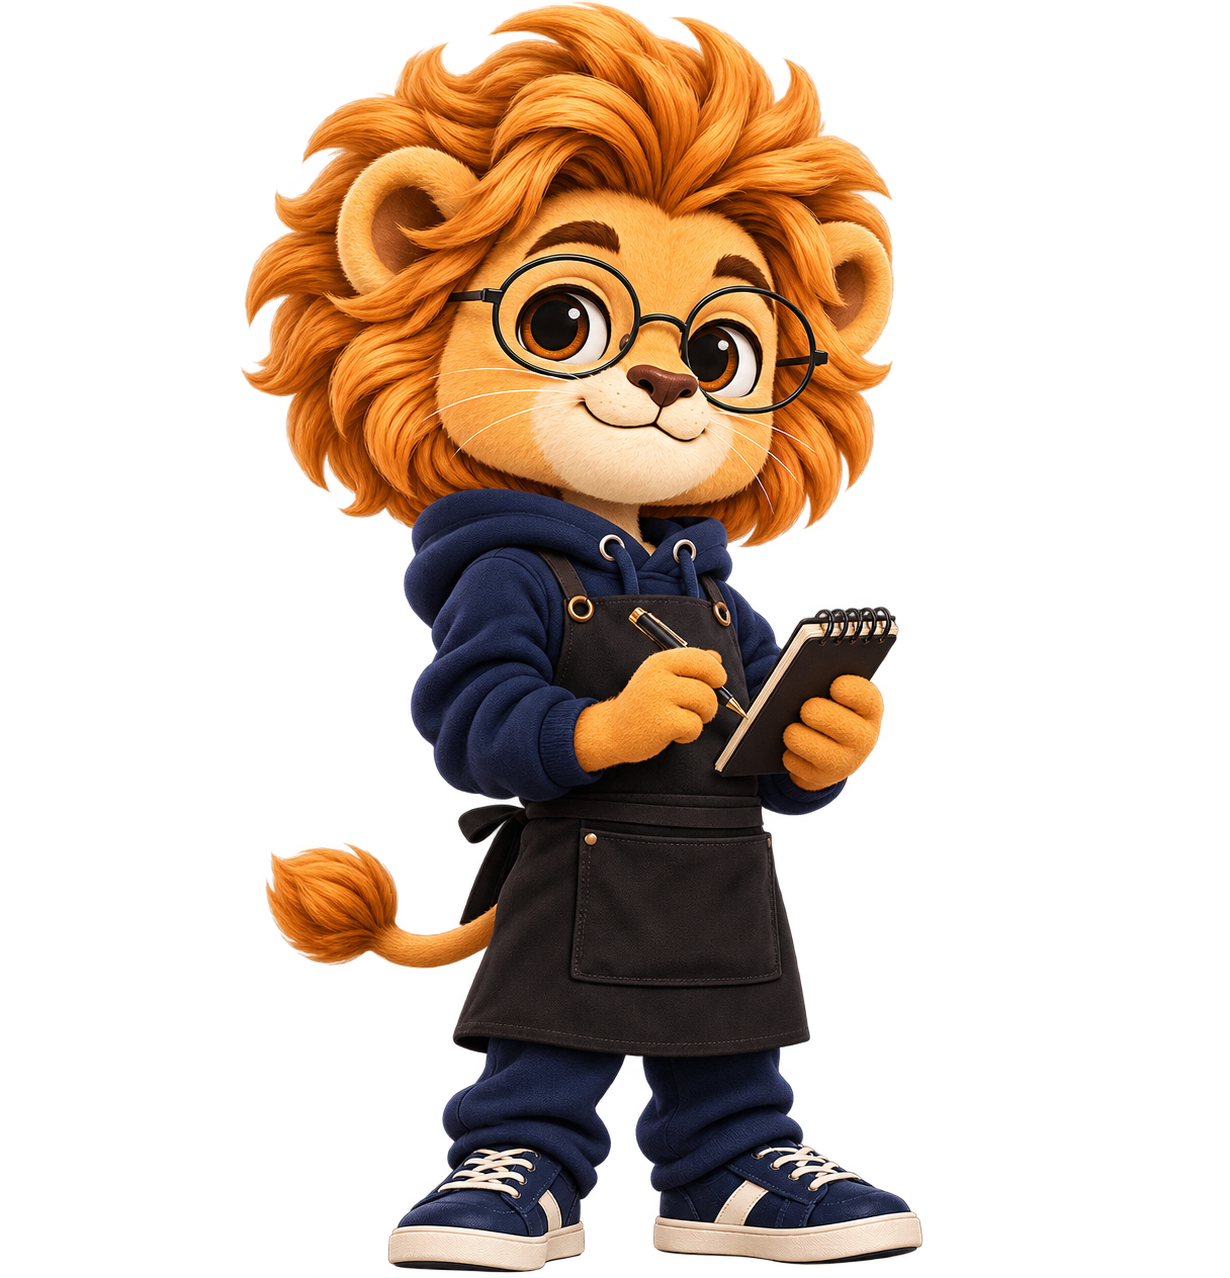
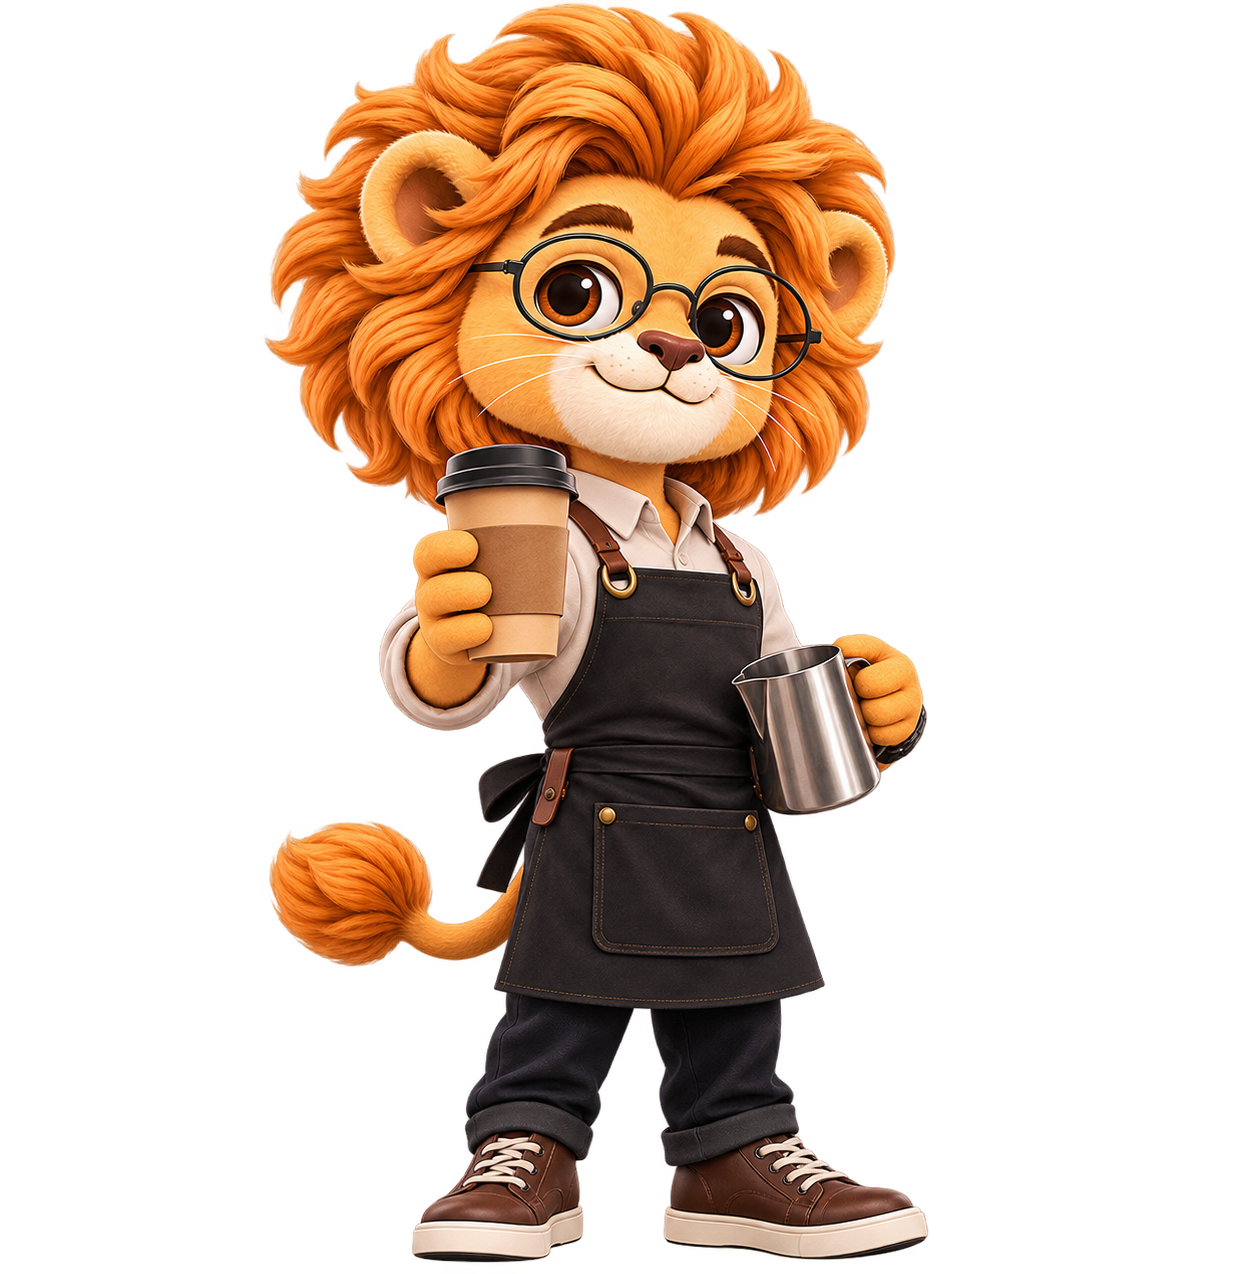
feat: cycle Leo's four roles every two seconds
All four outfits now exist — barista, interviewer, colleague and
doctor — so every role shows its own artwork instead of reusing
the barista.

The panel cycles through them on a two-second timer and wraps
back to the first, so the whole set is visible without scrolling
or clicking. Picking a role stops the rotation and pins that
role, so the cycle never fights the visitor.

All four images render from the start with only the active one
opaque. Crossfading between already-decoded images avoids the
blank frame a swap-on-demand would show.

Changed region(s): [[0.1854, 0.0, 0.7724, 1.0]]

diff --git a/components/sections/Companion.tsx b/components/sections/Companion.tsx
@@ -1,21 +1,21 @@
 "use client";
 
-import { useState } from "react";
+import { useEffect, useState } from "react";
 import Image from "next/image";
 import { assetPath } from "@/lib/asset-path";
 import { Reveal } from "@/components/ui/Reveal";
 import styles from "./Companion.module.css";
 
-/* هر نقش میتواند تصویر مخصوص خودش را داشته باشد.
-   نقشهایی که هنوز عکسی ندارند، تصویر پیشفرض (گارسون) را نشان میدهند. */
+/* هر نقش تصویر خودش را دارد. چرخه هر ۲ ثانیه یکبار جلو میرود
+   و بعد از نقش چهارم به اولی برمیگردد. */
 const roles = [
   {
     name: "گارسون کافه",
     desc: "سفارش غذا و نوشیدنی",
     image: "/images/leo-barista.png",
     alt: "لئو با پیشبند گارسون کافه",
-    width: 1230,
-    height: 1278,
+    width: 1235,
+    height: 1274,
   },
   {
     name: "مصاحبهگر",
@@ -28,20 +28,22 @@ const roles = [
   {
     name: "همکار جدید",
     desc: "گفتوگوی روزمرهٔ محیط کار",
-    image: "/images/leo-barista.png",
-    alt: "لئو با پیشبند گارسون کافه",
-    width: 1230,
-    height: 1278,
+    image: "/images/leo-colleague.png",
+    alt: "لئو در نقش همکار جدید",
+    width: 1235,
+    height: 1274,
   },
   {
     name: "پزشک",
     desc: "توضیح علائم و شکایت",
-    image: "/images/leo-barista.png",
-    alt: "لئو با پیشبند گارسون کافه",
-    width: 1230,
-    height: 1278,
+    image: "/images/leo-doctor.png",
+    alt: "لئو در نقش پزشک",
+    width: 1235,
+    height: 1274,
   },
 ];
+
+const ROTATE_MS = 2000;
 
 /** آیکون سادهٔ آدم — هماندازه برای همهٔ نقشها */
 function PersonIcon() {
@@ -65,7 +67,27 @@ function PersonIcon() {
 
 export function Companion() {
   const [active, setActive] = useState(0);
+  // وقتی کاربر خودش نقشی را انتخاب میکند، چرخش خودکار متوقف میشود
+  const [manual, setManual] = useState(false);
   const current = roles[active];
+
+  useEffect(() => {
+    if (manual) return;
+
+    // کاربرانی که حرکت را کم میخواهند، چرخش خودکار نبینند
+    if (window.matchMedia("(prefers-reduced-motion: reduce)").matches) return;
+
+    const id = setInterval(() => {
+      setActive((prev) => (prev + 1) % roles.length);
+    }, ROTATE_MS);
+
+    return () => clearInterval(id);
+  }, [manual]);
+
+  const select = (index: number) => {
+    setActive(index);
+    setManual(true);
+  };
 
   return (
     <section
@@ -96,9 +118,7 @@ export function Companion() {
                 <li key={role.name}>
                   <button
                     type="button"
-                    onClick={() => setActive(index)}
-                    onMouseEnter={() => setActive(index)}
-                    onFocus={() => setActive(index)}
+                    onClick={() => select(index)}
                     aria-pressed={active === index}
                     className={`${styles.role} ${
                       active === index ? styles.roleActive : ""
@@ -121,34 +141,24 @@ export function Companion() {
           <div className={styles.media}>
             <span className={styles.mediaGlow} aria-hidden="true" />
             <div className={styles.mediaFrame}>
-              {/* تصویرهای دیگر از قبل بارگذاری میشوند تا لحظهٔ کلیک
-                  روی «مصاحبهگر» تصویر خالی نماند. */}
-              {roles
-                .filter((role) => role.image !== current.image)
-                .map((role) => (
-                  <Image
-                    key={`pre-${role.name}`}
-                    src={assetPath(role.image)}
-                    alt=""
-                    width={role.width}
-                    height={role.height}
-                    sizes="1px"
-                    aria-hidden="true"
-                    className={styles.preload}
-                  />
-                ))}
-
-              {/* کلید روی نام نقش است تا با هر تغییر، تصویر دوباره
-                  ساخته شود و انتقال محو انجام شود. */}
-              <Image
-                key={current.image + current.name}
-                src={assetPath(current.image)}
-                alt={current.alt}
-                width={current.width}
-                height={current.height}
-                sizes="440px"
-                className={styles.mediaImage}
-              />
+              {/* هر چهار تصویر رندر میشوند و فقط تصویر فعال دیده
+                  میشود. اینطور همه از قبل بارگذاری شدهاند و هیچ
+                  تعویضی خالی نمیماند. */}
+              {roles.map((role, index) => (
+                <Image
+                  key={role.name}
+                  src={assetPath(role.image)}
+                  alt={index === active ? role.alt : ""}
+                  width={role.width}
+                  height={role.height}
+                  sizes="440px"
+                  aria-hidden={index !== active}
+                  priority
+                  className={`${styles.mediaImage} ${
+                    index === active ? styles.mediaImageActive : ""
+                  }`}
+                />
+              ))}
             </div>
           </div>
         </Reveal>

diff --git a/components/sections/Companion.module.css b/components/sections/Companion.module.css
@@ -187,46 +187,47 @@
   pointer-events: none;
 }
 
+/* قاب تصویر — ارتفاع ثابت تا با تعویض نقش صفحه نپرد.
+   فرزندانش absolute هستند، پس خودش باید ابعاد بدهد. */
 .mediaFrame {
   position: relative;
   z-index: 1;
+  width: 100%;
+  max-width: 440px;
+  aspect-ratio: 1 / 1;
   display: grid;
   place-items: center;
-  width: 100%;
-  min-height: 400px;
 }
 
-/* تصویرهای پیشبارگذاریشده — از دید پنهان، فقط کش میشوند */
-.preload {
-  position: absolute;
-  width: 1px;
-  height: 1px;
-  opacity: 0;
-  pointer-events: none;
-}
-
+/* تصویرها روی هم مینشینند؛ فقط فعال دیده میشود و بقیه با محو
+   کنار میروند. همه از ابتدا رندر شدهاند، پس تعویض بدون مکث است. */
 .mediaImage {
+  position: absolute;
+  inset: 0;
   width: 100%;
   max-width: 440px;
   height: auto;
+  margin: auto;
+  opacity: 0;
+  transform: scale(0.97) translateY(6px);
   filter: drop-shadow(0 28px 56px rgba(0, 0, 0, 0.45));
-  animation: swapIn 0.45s cubic-bezier(0.22, 0.61, 0.36, 1);
+  transition:
+    opacity 0.45s cubic-bezier(0.22, 0.61, 0.36, 1),
+    transform 0.45s cubic-bezier(0.22, 0.61, 0.36, 1);
+  pointer-events: none;
 }
 
-/* هر بار که نقش عوض میشود، تصویر تازه با محو و کمی بزرگنمایی میآید */
-@keyframes swapIn {
-  from {
-    opacity: 0;
-    transform: scale(0.96) translateY(8px);
-  }
-  to {
-    opacity: 1;
-    transform: scale(1) translateY(0);
-  }
+.mediaImageActive {
+  opacity: 1;
+  transform: scale(1) translateY(0);
 }
 
 @media (prefers-reduced-motion: reduce) {
   .mediaImage {
-    animation: none;
+    transition: opacity 0.3s ease;
+    transform: none;
+  }
+  .mediaImageActive {
+    transform: none;
   }
 }
